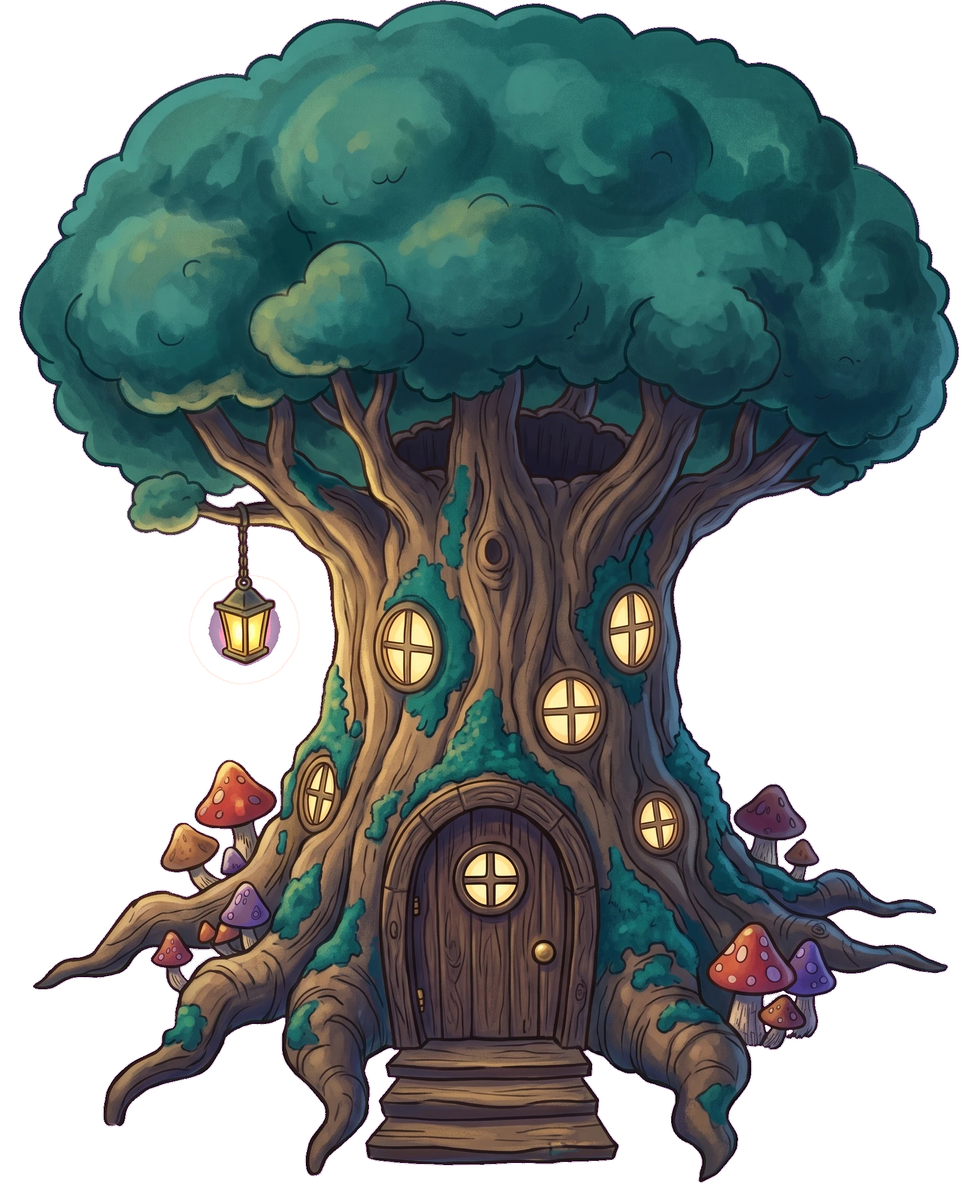
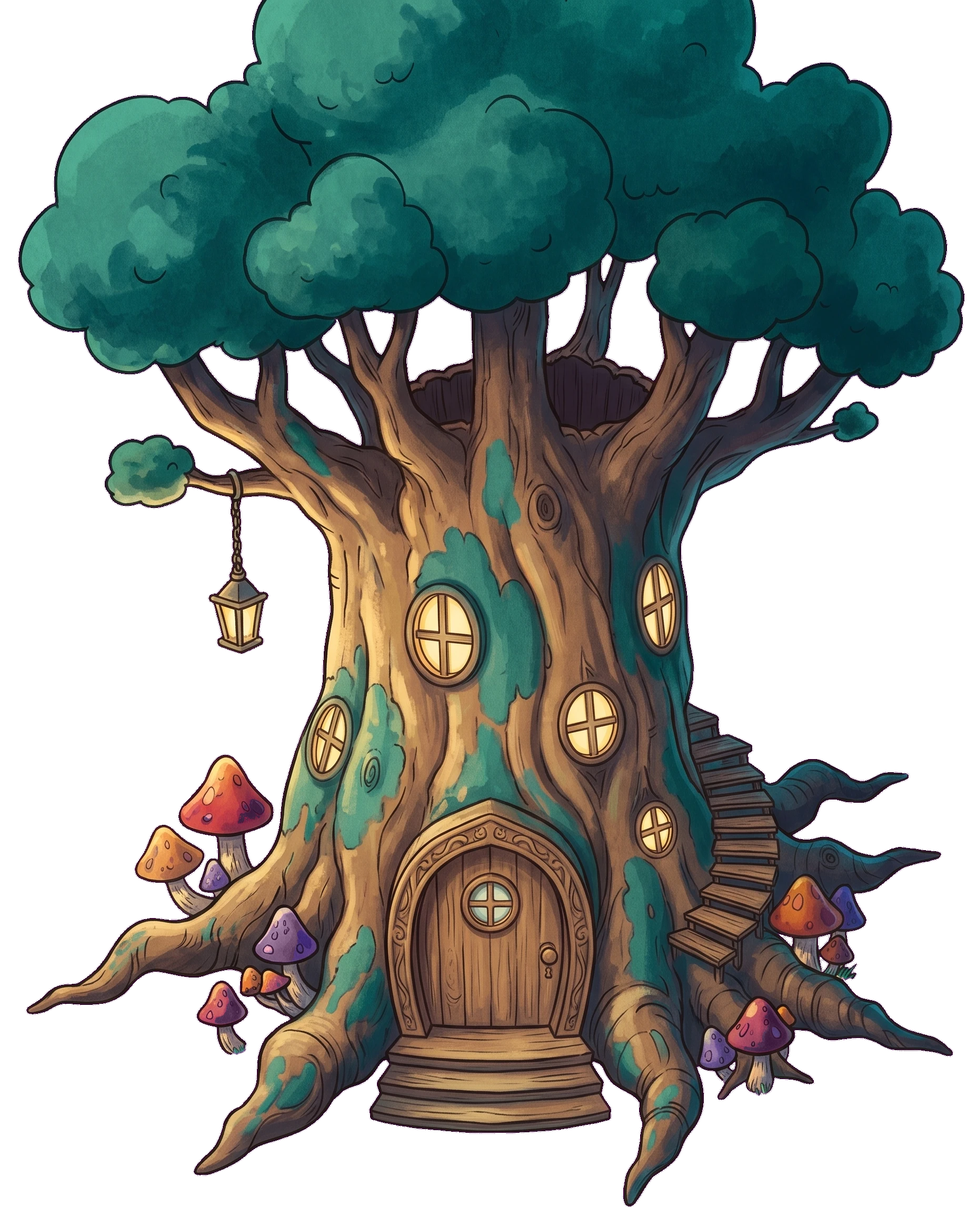
Repaint the cottage outside without a sketch backdrop or lantern halo; keep walls inside the building
The layout sketch is now just the door arch, since the model copied any other
shape as a flat backdrop. The cottage's clearing no longer leaves wall tiles
poking out past its corners.

Claude-Session: https://claude.ai/code/session_01TsSafhwmHDbvmvcaSEoWWM

diff --git a/packages/server/src/assets/building-art.ts b/packages/server/src/assets/building-art.ts
@@ -67,9 +67,9 @@ export function buildingArtJobs(style: BuildingStyle): BuildingArtJob[] {
     size: '2K',
     prompt: [
       BASE_PROMPT,
-      'The first image is a rough layout sketch made of flat shapes. Repaint it as finished, richly detailed game art, keeping the layout:',
-      'the building fills the frame from side to side, and its front door is exactly where the dark arch is, at the middle of the bottom edge,',
-      'the same size as the arch. The other shapes only mark where the top and the body go: give them the natural outline the subject has.',
+      'The first image is a layout sketch: a dark door arch on a magenta background. Paint finished, richly detailed game art over it:',
+      'the front door of the building is exactly where the dark arch is, at the middle of the bottom edge,',
+      'the same size as the arch. Paint the whole building around that door, filling the frame from side to side and top to bottom, with its natural outline.',
       'with a few short steps or a threshold leading down from the door to the bottom edge. Nothing else stands in front of the door.',
       style.references?.length ? 'The other images show the approved art style and, where it is the same place, how it looked before: keep its character.' : '',
       biome,
@@ -173,18 +173,16 @@ export function artExtension(job: BuildingArtJob): 'webp' | 'png' {
 }
 
 /**
- * The layout sketch sent with every building's outside: flat shapes on the
- * key colour (a top mass, a body, and the door arch at the middle of the
- * bottom edge), neutral so it suits a tree, a house or a tower alike. The model
- * paints over it, which is what puts the door where the doorway is.
+ * The layout sketch sent with every building's outside: the door arch at the
+ * middle of the bottom edge, on the key colour. The model paints the building
+ * around it, which is what puts the door where the doorway is; anything more
+ * in the sketch gets copied as it is.
  */
 export async function layoutSketch(): Promise<Buffer> {
   const w = 800;
   const h = 1000;
   const svg = `<svg xmlns="http://www.w3.org/2000/svg" width="${w}" height="${h}">
 <rect width="100%" height="100%" fill="${KEY_COLOR.hex}"/>
-<ellipse cx="${w / 2}" cy="${h * 0.27}" rx="${w * 0.46}" ry="${h * 0.25}" fill="#5a4a5a"/>
-<path d="M ${w * 0.04} ${h * 0.97} L ${w * 0.12} ${h * 0.42} L ${w * 0.88} ${h * 0.42} L ${w * 0.96} ${h * 0.97} Z" fill="#9a8270"/>
 <path d="M ${w * 0.44} ${h * 0.97} L ${w * 0.44} ${h * 0.85} A ${w * 0.06} ${w * 0.06} 0 0 1 ${w * 0.56} ${h * 0.85} L ${w * 0.56} ${h * 0.97} Z" fill="#3a2418"/>
 </svg>`;
   return sharp(Buffer.from(svg)).png().toBuffer();

diff --git a/packages/shared/src/buildings.ts b/packages/shared/src/buildings.ts
@@ -51,7 +51,7 @@ export const BUILDING_STYLES: Record<string, BuildingStyle> = {
     biome: 'whispering-woods',
     exterior:
       "Old Bramble the herbalist's home inside a huge, wide hollow tree: a carved round-topped wooden front door with a little round window, " +
-      'a few short wooden steps down from the door, glowing round windows in the trunk, a hanging lantern, teal moss on the bark, ' +
+      'a few short wooden steps down from the door, glowing round windows in the trunk, teal moss on the bark, ' +
       'thick roots reaching out to both sides, colourful mushrooms among the roots, a vast canopy of deep teal-green leaves',
     floor: "smooth honey-brown wooden floorboards cut from the tree's own heartwood, running left to right, with faint grain and a few small knots",
     wall: 'the top of a thick wall of living tree wood: dark rough bark-brown wood with ridged grain and small patches of teal moss',

diff --git a/packages/shared/test/world.test.ts b/packages/shared/test/world.test.ts
@@ -123,6 +123,9 @@ describe("Old Bramble's cottage", () => {
       if (tileAt(woods, x, bottom) !== Tile.Wall) door.push(tileAt(woods, x, bottom));
     }
     expect(door).toEqual([Tile.Door, Tile.Door]);
+    // No wall pokes out past the corners into the clearing.
+    for (let y = top - 2; y <= bottom + 1; y++) for (const x of [left - 2, right + 1]) expect(tileAt(woods, x, y)).not.toBe(Tile.Wall);
+    for (let x = left - 2; x <= right + 1; x++) for (const y of [top - 2, bottom + 1]) expect(tileAt(woods, x, y)).not.toBe(Tile.Wall);
     // The building the client draws matches the walls.
     expect(woods.buildings).toEqual([expect.objectContaining({ x: left - 1, y: top - 1, width: COTTAGE_SIZE + 2, height: COTTAGE_SIZE + 2 })]);
   });

diff --git a/packages/shared/src/world.ts b/packages/shared/src/world.ts
@@ -280,8 +280,10 @@ function cottage(map: RegionMap, left: number, top: number, size: number): Build
   const bottom = top + size + 1;
   for (let y = top - 1; y <= bottom + 1; y++) {
     for (let x = left - 1; x <= right + 1; x++) {
-      const wall = x === left || x === right || y === top || y === bottom;
       const inside = x > left && x < right && y > top && y < bottom;
+      // The walls are the building's own edge; the ring around it is clearing.
+      const within = x >= left && x <= right && y >= top && y <= bottom;
+      const wall = within && !inside;
       set(map, x, y, wall ? Tile.Wall : inside ? Tile.Floor : Tile.Ground);
     }
   }
